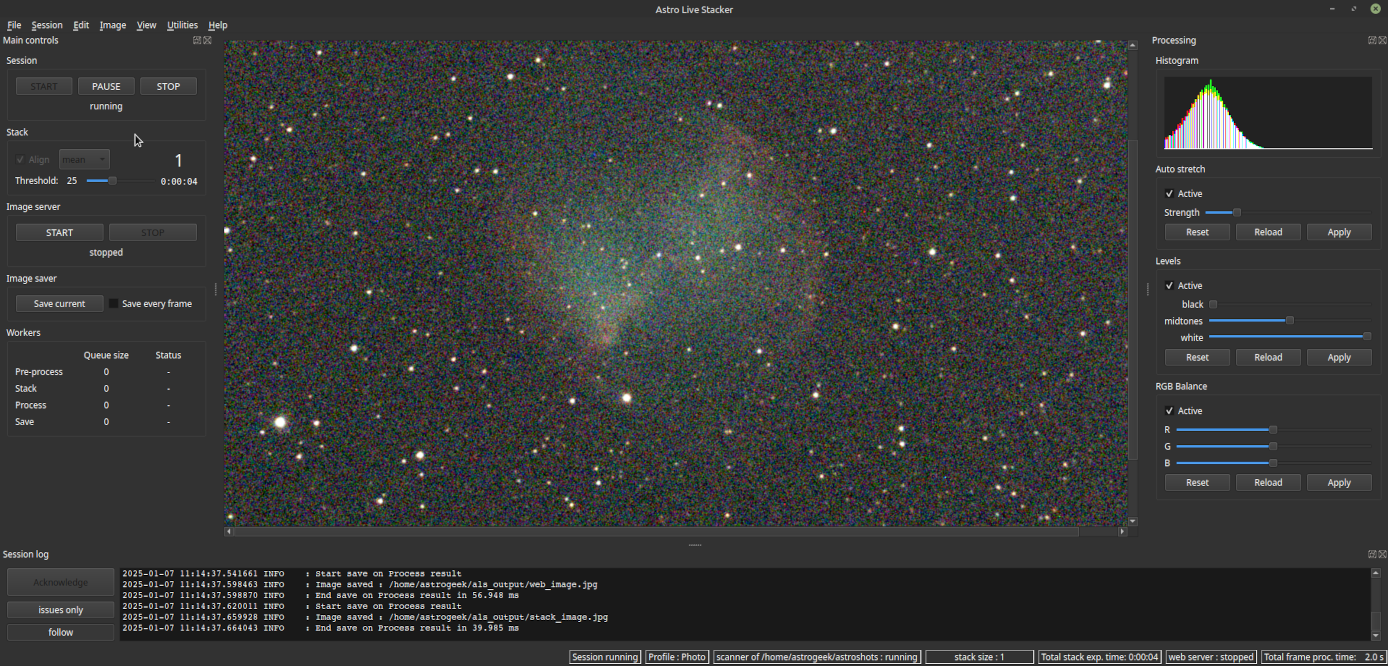
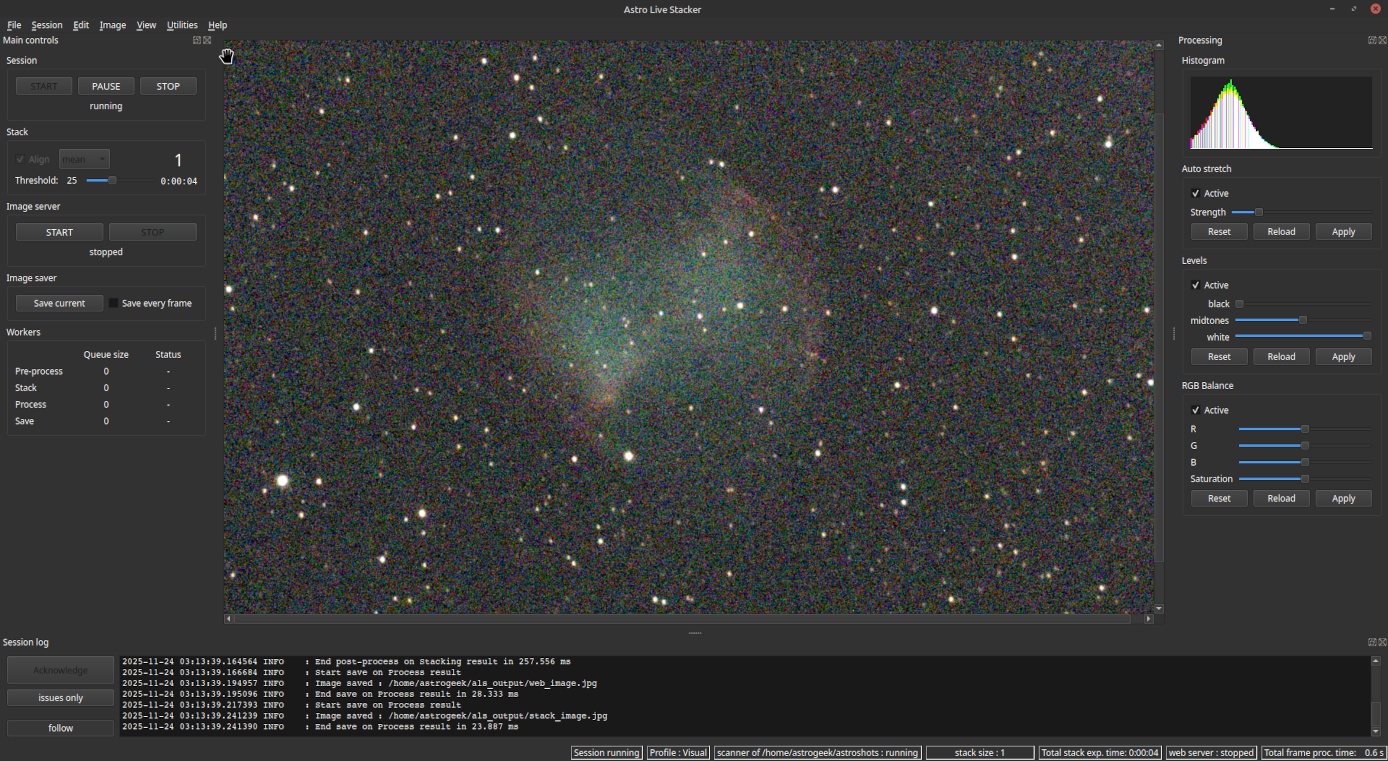
update EN quickstart screenshots
We now have a saturation slider

diff --git a/website/content/en/docs/v1.0/quickstart/_index.md b/website/content/en/docs/v1.0/quickstart/_index.md
@@ -2,7 +2,7 @@
 title: "Quick Start"
 description: "Everything you need to know to get started with ALS."
 author: "ALS Team"
-lastmod: 2025-11-07T16:29:34Z
+lastmod: 2025-11-24T17:58:57Z
 keywords: [ "Quick start with ALS" ]
 draft: false
 type: "docs"
@@ -201,7 +201,7 @@ ALS and our tracking tools are **opensource** software, their source code is pub
 {{< figure src="ready.png"
 caption="ALS ready to start its very first session"
 width="1388px"
-height="666px"
+height="761px"
 alt="ALS main window showing a software interface for stacking astronomical images in real-time. The interface includes sections for main controls (start, pause, stop), stack settings (align, threshold), image server (start, stop), image saver (save current, save every frame), workers (queue size, status), processing (histogram, auto stretch, levels, RGB balance), and session log." >}}
 {{< /center >}}
 
@@ -248,7 +248,7 @@ subs
 {{< figure src="stacked_01.png"
 caption="ALS after processing the 1<sup>st</sup> sub"
 width="1388px"
-height="666px"
+height="761px"
 alt="ALS main window after processing the first sub, displaying an initial, slightly noisy image of Messier 27 nebula with scattered stars. The session log shows successful processing messages. The processing panel on the right provides histogram and level adjustments, RGB balance, and auto stretch settings." >}}
 {{< /center >}}
 
@@ -265,7 +265,7 @@ subs.
 {{< figure src="stacked_15.png"
 caption="ALS after processing the 15<sup>th</sup> image. Contrast and noise improve"
 width="1388px"
-height="666px"
+height="761px"
 alt="ALS main window after processing the 15th sub, displaying a less noisy and more detailed image of Messier 27 nebula with scattered stars. The session log shows successful processing messages. The processing panel on the right provides histogram and level adjustments, RGB balance, and auto stretch settings." >}}
 {{< /center >}}
 
@@ -293,7 +293,7 @@ The image in the **central area** is instantly updated after each sub is process
 {{< figure src="stacked_200.png"
 caption="ALS after processing the 200<sup>th</sup> image. A beautiful, detailed, and smoothed image"
 width="1388px"
-height="666px"
+height="761px"
 alt="The Astro Live Stacker (ALS) main window after processing the 200th sub, displaying a smooth, detailed, and high-contrast image of the Messier 27 nebula with numerous stars. The session log at the bottom shows successful processing messages and the image saver panel on the left indicates that the images have been saved successfully. The right panel includes processing options such as histogram adjustments, auto stretch, levels, and RGB balance." >}}
 {{< /center >}}
 
